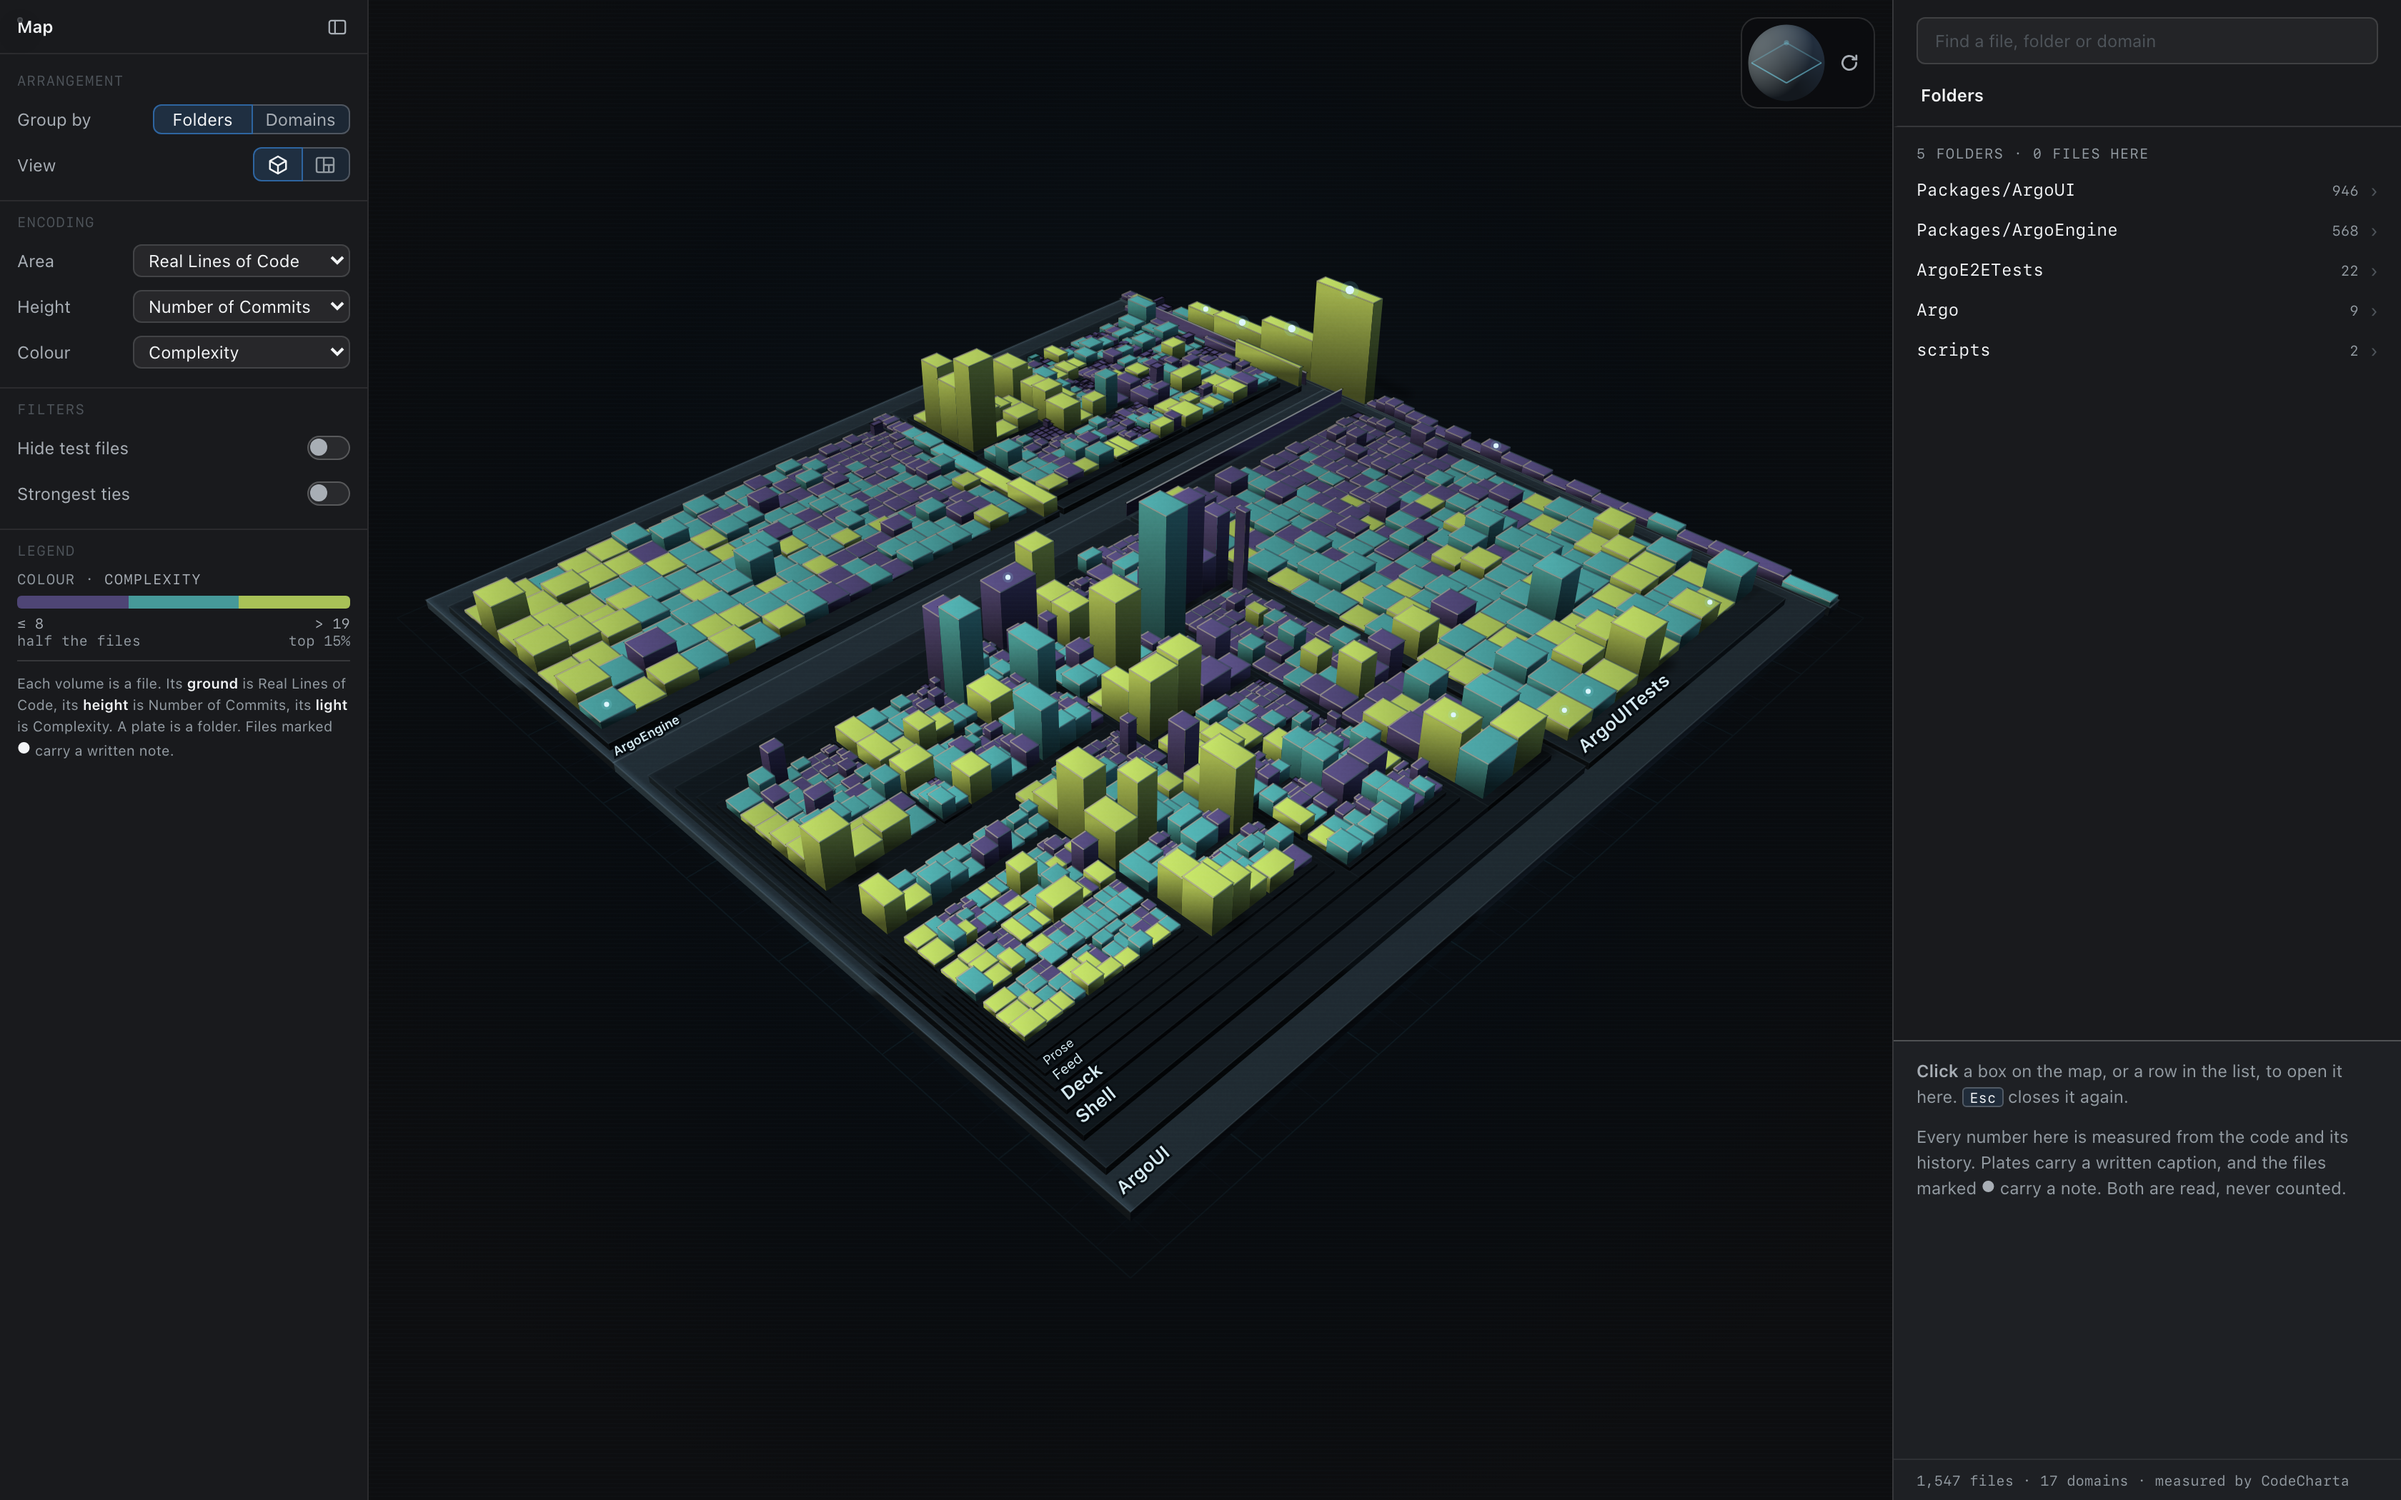
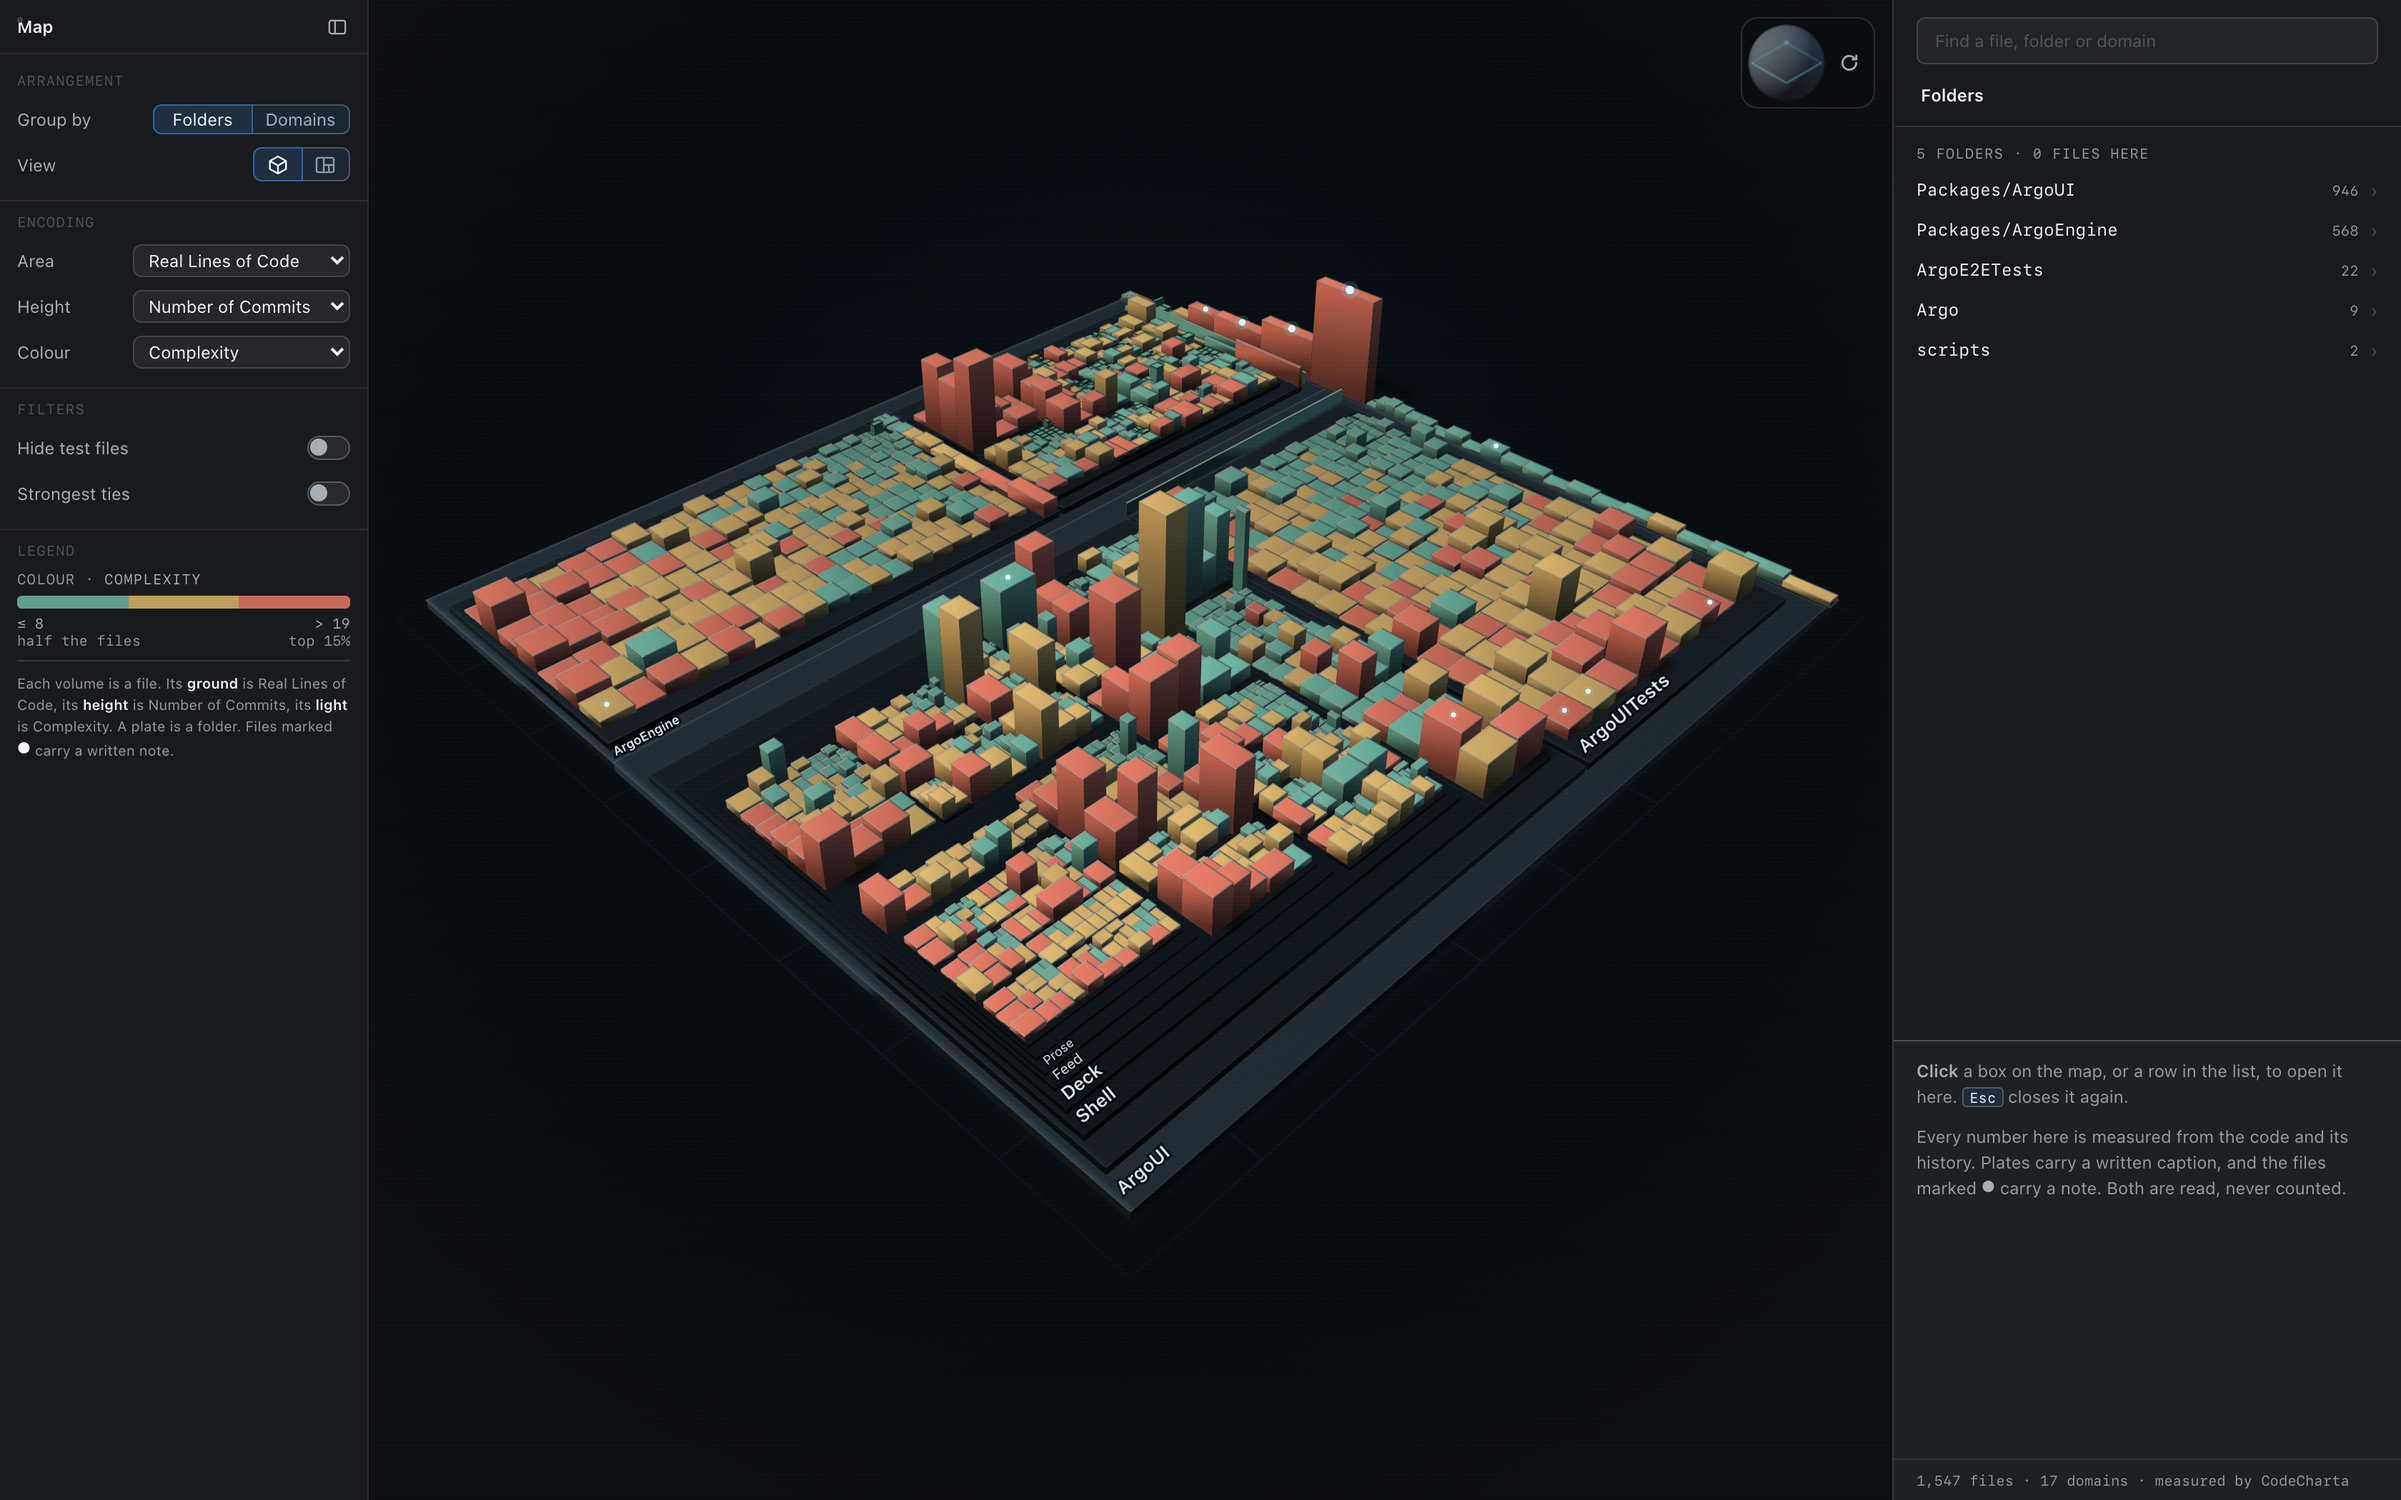
Complexity is a traffic light, and the exemption is the point rather than the cost (#650)
Green, amber, red — the CodeCharta convention, and the one reading nobody has
to be taught. The viridis ramp cleared every role in the contract and was wrong
on the wall: flat and unlit in the treemap it reads as a heatmap rather than a
place, and it throws away the only thing a band says before the legend is read.

The bands sit inside the 0.25 separation floor — green 0.169 from state.idle,
amber 0.212 from state.attention, red 0.203 from state.failure — and take a
stated exemption, on the model of SeriesRoles' spent and ordinary rungs. The
exemption is deliberate rather than tolerated: no state role is ever drawn on
the map, so a band and a chip are never in one field of view, and the shared
reading is the POINT. Amber means the same thing on a roof as it does beside a
session.

All seven renders retaken.

Changed region(s): [[0.1875, 0.1857, 0.7812, 0.7119], [0.0, 0.3714, 0.1562, 0.4333]]

diff --git a/docs/designs/cockpit-atlas.html b/docs/designs/cockpit-atlas.html
@@ -151,28 +151,21 @@
        measured, not asserted. See the design's own notes for the arithmetic. */
 
     /* 1 · MEASURE RAMP — three ordered bands for one continuous measure.
-       Viridis hues at t = 0.15 / 0.50 / 0.90, carried to the pigment weight the light model
-       was tuned for. Of eleven published sequential schemes viridis is the only one that
-       clears Argo's palette at all: plasma and rocket collide with state.failure, magma with
-       attention, inferno with destructive, YlGnBu with running, cividis and mako with the
-       selection ground. Luminance rises 0.280 -> 0.507 -> 0.677, so rank reads without the
-       legend.
+       A TRAFFIC LIGHT: green, amber, red. It is the convention CodeCharta uses and the one
+       every reader already owns, and it is the whole reason a band is legible before the
+       legend is read. Luminance is not the ordering channel here — the hue is.
 
-       WHAT THIS REPLACES, and why it is worth a contract change: the prototype's own bands
-       sat 0.031 / 0.071 / 0.093 from state.running, state.attention and state.failure — they
-       WERE the operational-state palette. A complex file and a crashed session were the same
-       red.
-
-       STATED EXEMPTION, on the model of SeriesRoles' spent and ordinary rungs. Against the
-       four roles a reader could actually confuse a band with, every band clears the floor —
-       nearest is state.idle at 0.257. Against selectionGround the quiet band measures 0.240,
-       under the 0.25 floor. It is exempt because selectionGround is the ground under a
-       selected LIST ROW and never appears on the map, so the two are never in one field of
-       view. Full-strength viridis clears it at 0.265 and is the fallback if that ever stops
-       being true. */
-    --ramp-quiet:    #4D426C;   /* nearest state role: idle      at 0.407 */
-    --ramp-middling: #45928E;   /* nearest state role: idle      at 0.257 */
-    --ramp-hot:      #A5B851;   /* nearest state role: attention at 0.265 */
+       The bands are near the operational-state palette (green 0.169 from state.idle, amber
+       0.212 from state.attention, red 0.203 from state.failure) and take a STATED EXEMPTION
+       from the 0.25 separation floor, on the model of SeriesRoles' spent and ordinary rungs.
+       The exemption is deliberate rather than tolerated: no state role is ever drawn on the
+       map, so nothing is in one field of view with a band, and the shared reading is the
+       POINT — amber means the same thing on a roof as it does on a chip. A viridis ramp was
+       tried, cleared every role, and was rejected on sight: it reads as a heatmap rather than
+       a place, and it throws away the one thing a reader does not have to be taught. */
+    --ramp-quiet:    #609884;   /* green  — half the files */
+    --ramp-middling: #BC9658;   /* amber  */
+    --ramp-hot:      #C26450;   /* red    — the top 15% */
 
     /* 2 · DOMAIN WHEEL — domains are categorical and their COUNT belongs to the repository,
        so the token is the rule rather than the colours: hue = i/n around the wheel at a
